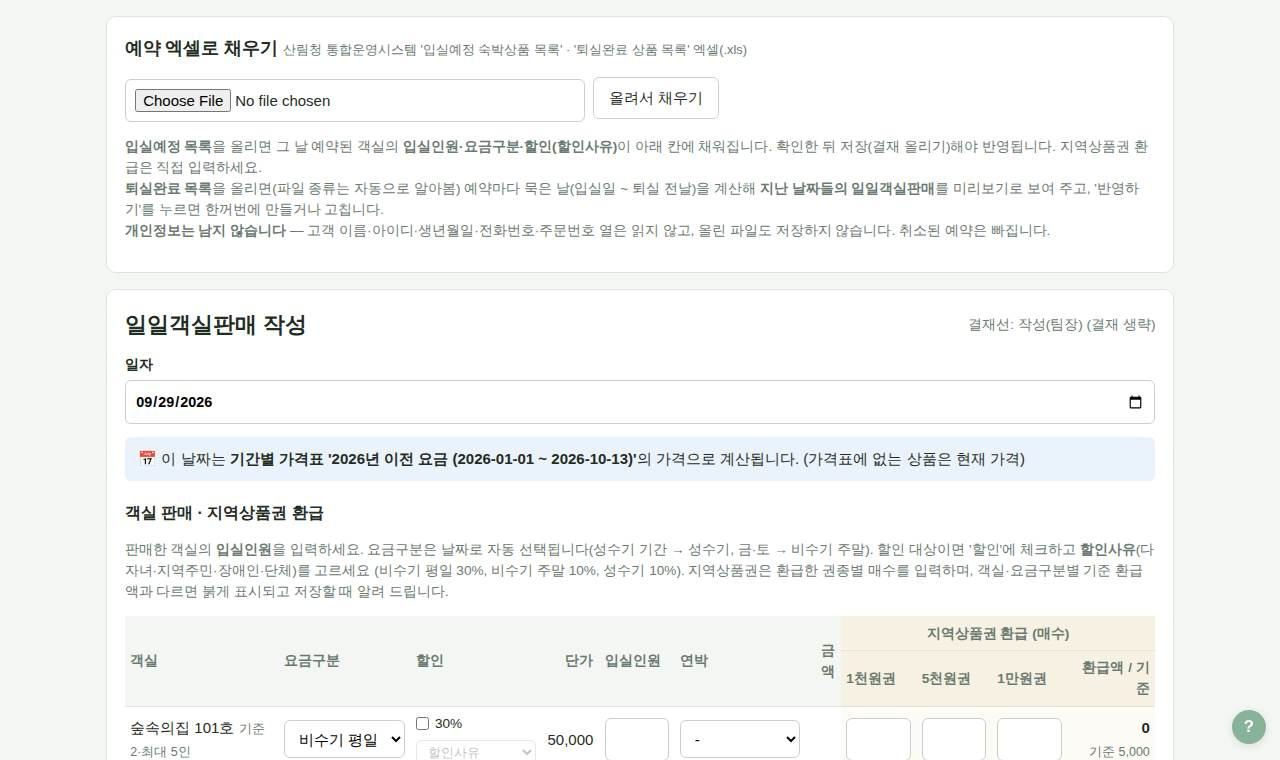
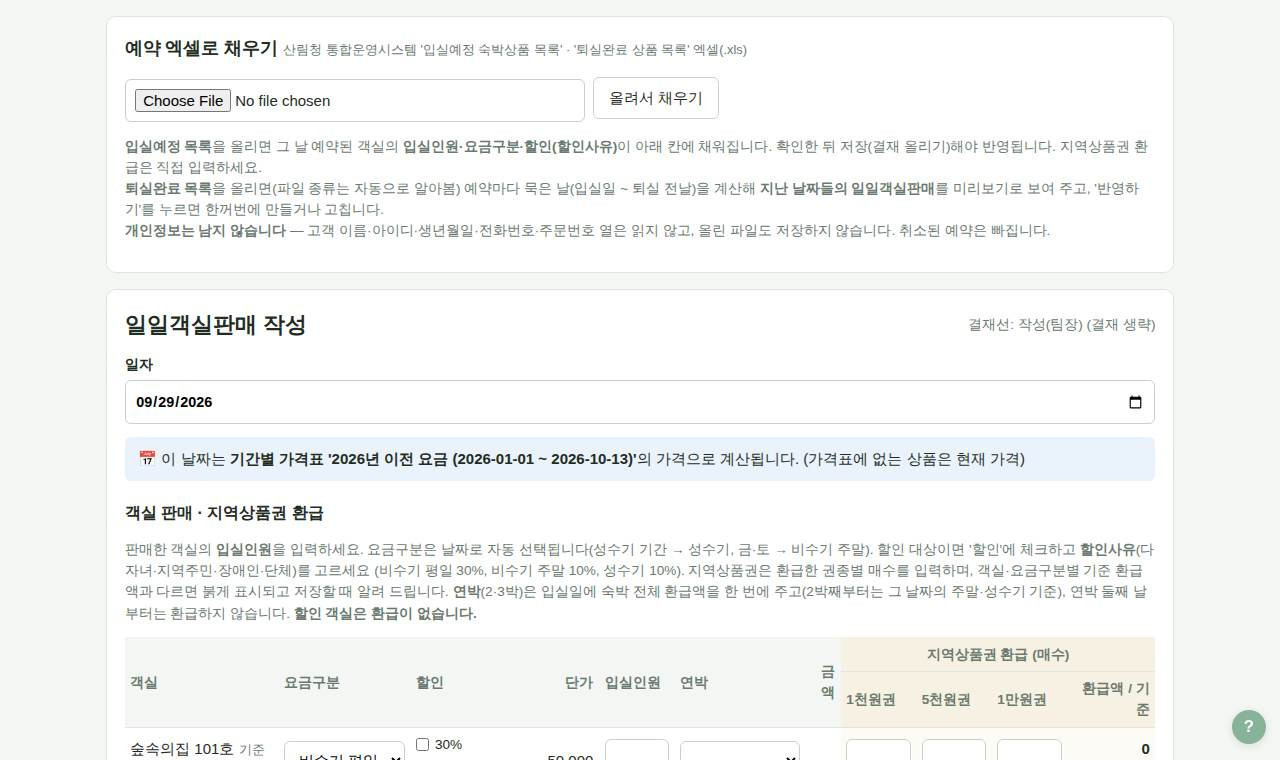
일일객실판매: 연박은 입실일에 전체 환급(날짜별 주말·성수기 기준), 연박 둘째 날·할인 객실 0
Claude-Session: https://claude.ai/code/session_01Lr6yxKyasrSL9QLfMX5TX8

diff --git a/assets/app.js b/assets/app.js
@@ -77,8 +77,17 @@
         setText($(tr, '[data-refund-amt]'), fmt(refund));
         $(tr, '[data-guests]').classList.toggle('invalid', (max > 0 && g > max) || (!sold && refund > 0));
         // 기준 환급액: 요금구분별 (data-refund-weekday / -weekend / -peak)
-        const expected = num(tr.dataset['refund' + rate.charAt(0).toUpperCase() + rate.slice(1)]);
+        //  할인 객실 0, 앞선 연박이 이어지는 날 0(입실일에 지급), 연박 N박은 입실일에 2박째부터의 날짜별 기준액까지 더함
+        const stay = num(($(tr, '.stay-select') || {}).value);
+        let next = [];
+        try { next = JSON.parse(tr.dataset.refundNext || '[]'); } catch (e) { next = []; }
+        let expected = num(tr.dataset['refund' + rate.charAt(0).toUpperCase() + rate.slice(1)]);
+        let refundWhy = '';
+        if (dcBox.checked) { expected = 0; refundWhy = ' (할인 · 환급 없음)'; }
+        else if (tr.dataset.cont) { expected = 0; refundWhy = ' (연박 중 · ' + tr.dataset.cont + ' 입실일에 지급)'; }
+        else if (stay >= 2) { for (let k = 0; k < stay - 1; k++) expected += num(next[k]); refundWhy = ' (연박 ' + stay + '박 합계)'; }
         setText($(tr, '[data-refund-base]'), fmt(expected));
+        setText($(tr, '[data-refund-why]'), refundWhy);
         const mismatch = sold ? refund !== expected : refund > 0;
         tr.classList.toggle('sold', sold);
         tr.classList.toggle('refund-mismatch', mismatch);
@@ -204,7 +213,7 @@
       recalc();
     });
   });
-  document.querySelectorAll('[data-rate], [data-dc], [data-dc-reason]').forEach((el) => el.addEventListener('change', recalc));
+  document.querySelectorAll('[data-rate], [data-dc], [data-dc-reason], .stay-select').forEach((el) => el.addEventListener('change', recalc));
   document.querySelectorAll('[data-rent-time], [data-rent-night]').forEach((el) => el.addEventListener('change', recalc));
   document.querySelectorAll('[data-rent-youth]').forEach((el) => el.addEventListener('change', recalc));
 

diff --git a/app/items.php b/app/items.php
@@ -120,6 +120,7 @@ function items_parse(string $type, string $workDate, int $journalId): array
         $lines = [];
         // 객실: 객실명마다 한 실이므로 입실인원을 입력하면 판매로 본다
         $payload['warnings'] = [];
+        $continued = valid_date($workDate) ? turnover_continued($workDate) : []; // 앞선 연박이 이어지는 객실 (환급 없음)
         foreach ((array) ($_POST['room'] ?? []) as $pid => $row) {
             $p = $products[(int) $pid] ?? null;
             if (!$p || $p['grp'] !== 'room') continue;
@@ -141,16 +142,20 @@ function items_parse(string $type, string $workDate, int $journalId): array
             if ($dc && $unit !== room_price($p, $rate) && !isset(ROOM_DC_REASONS[$dcReason])) $errors[] = "{$p['name']}: 할인사유를 고르세요.";
             $roomSeason = $rate === 'peak' ? season_for('room', $workDate) : null;
             $refund = voucher_amount($vouchers);
-            $expected = room_refund($p, $rate);
+            $isDc = $dc && $unit !== room_price($p, $rate);
+            $sn = ($sn = to_int($row['stay'] ?? 0)) >= 2 && $sn <= 30 ? $sn : 0;
+            $isCont = isset($continued[(int) $p['id']]);
+            $expected = room_refund_stay($p, $workDate, $rate, $isDc, $sn, $isCont);
             if ($refund !== $expected) {
-                $payload['warnings'][] = "{$p['name']}: 지역상품권 환급액 " . number_format($refund) . '원이 ' . RATE_TYPES[$rate] . ' 기준 환급액 ' . number_format($expected) . '원과 다릅니다.';
+                $why = $isDc ? '할인 객실은 환급 없음' : ($isCont ? '연박 중(입실일 ' . date('n/j', strtotime($continued[(int) $p['id']])) . '에 지급)' : ($sn ? "연박 {$sn}박 합계" : RATE_TYPES[$rate]));
+                $payload['warnings'][] = "{$p['name']}: 지역상품권 환급액 " . number_format($refund) . "원이 기준 환급액 " . number_format($expected) . "원($why)과 다릅니다.";
             }
             $lines[] = [
                 'product_id' => (int) $p['id'], 'grp' => 'room', 'name' => $p['name'], 'is_free' => 0,
                 'rate' => $rate, 'season' => $roomSeason['name'] ?? null, 'discounted' => (int) ($dc && $unit !== room_price($p, $rate)),
                 'dc_reason' => $dc && isset(ROOM_DC_REASONS[$dcReason]) ? $dcReason : null,
                 'unit_price' => $unit, 'qty' => 1, 'guests' => $guests, 'amount' => $unit,
-                'stay_nights' => ($sn = to_int($row['stay'] ?? 0)) >= 2 && $sn <= 30 ? $sn : 0, // 연박 (한 손님 2·3박 …)
+                'stay_nights' => $sn, // 연박 (한 손님 2·3박 …)
                 'refund_expected' => $expected, 'vouchers' => $vouchers,
             ];
         }
@@ -501,6 +506,7 @@ function items_form(string $type, array $payload, string $workDate, ?array $jour
     판매한 객실의 <b>입실인원</b>을 입력하세요. 요금구분은 날짜로 자동 선택됩니다(성수기 기간 → 성수기, 금·토 → 비수기 주말).
     할인 대상이면 '할인'에 체크하고 <b>할인사유</b>(<?= e(implode('·', ROOM_DC_REASONS)) ?>)를 고르세요 (<?= e(implode(', ', array_map(fn($k, $v) => $v . ' ' . room_dc_pct($k) . '%', array_keys(RATE_TYPES), RATE_TYPES))) ?><?= room_dc_group_pct() ? ', 할인사유가 단체면 ' . room_dc_group_pct() . '%' : '' ?>).
     지역상품권은 환급한 권종별 매수를 입력하며, 객실·요금구분별 기준 환급액과 다르면 붉게 표시되고 저장할 때 알려 드립니다.
+    <b>연박</b>(2·3박)은 입실일에 숙박 전체 환급액을 한 번에 주고(2박째부터는 그 날짜의 주말·성수기 기준), 연박 둘째 날부터는 환급하지 않습니다. <b>할인 객실은 환급이 없습니다.</b>
   </p>
   <div class="table-scroll">
   <table class="table room-table" data-room-table>
@@ -511,9 +517,11 @@ function items_form(string $type, array $payload, string $workDate, ?array $jour
     </thead>
     <tbody>
     <?php $blockedToday = room_block_map($workDate, $workDate)[$workDate] ?? []; // 객실운영관리의 미판매 (예비객실·공사·업무예약)
+    $contToday = turnover_continued($workDate); // 앞선 연박이 이어지는 객실 → 환급은 입실일에 이미 지급
     foreach ($rooms as $pid => $p): $l = $byProduct[$pid] ?? null; $rate = $l['rate'] ?? rate_for_date($workDate); ?>
       <tr data-weekday="<?= (int) $p['price'] ?>" data-weekend="<?= (int) $p['price_weekend'] ?>" data-peak="<?= (int) $p['price_peak'] ?>"
-          data-max="<?= (int) $p['max_people'] ?>" data-refund-weekday="<?= room_refund($p, 'weekday') ?>" data-refund-weekend="<?= room_refund($p, 'weekend') ?>" data-refund-peak="<?= room_refund($p, 'peak') ?>" data-name="<?= e($p['name']) ?>">
+          data-max="<?= (int) $p['max_people'] ?>" data-refund-weekday="<?= room_refund($p, 'weekday') ?>" data-refund-weekend="<?= room_refund($p, 'weekend') ?>" data-refund-peak="<?= room_refund($p, 'peak') ?>" data-name="<?= e($p['name']) ?>"
+          data-refund-next="<?= e(json_encode(room_refund_next_nights($p, $workDate, max(3, (int) ($l['stay_nights'] ?? 0))))) ?>"<?= isset($contToday[$pid]) ? ' data-cont="' . e(date('n/j', strtotime($contToday[$pid]))) . '"' : '' ?>>
         <td><?= e($p['name']) ?> <small class="muted"><?= $p['base_people'] ?? 0 ? '기준 ' . (int) $p['base_people'] . '·' : '' ?>최대 <?= (int) $p['max_people'] ?>인</small><?= $p['is_active'] ? '' : ' <small class="muted">(판매중지)</small>' ?><?= isset($blockedToday[$pid]) ? ' <span class="badge rb-' . e($blockedToday[$pid]) . '" title="객실관리 › 객실운영관리">' . e(ROOM_BLOCK_REASONS[$blockedToday[$pid]] ?? '') . '</span>' : '' ?></td>
         <td><select name="room[<?= $pid ?>][rate]" data-rate>
           <?php foreach (RATE_TYPES as $k => $label): ?><option value="<?= $k ?>" <?= $rate === $k ? 'selected' : '' ?>><?= e($label) ?></option><?php endforeach ?>
@@ -532,7 +540,7 @@ function items_form(string $type, array $payload, string $workDate, ?array $jour
         <?php foreach ($denoms as $d): ?>
           <td class="refund-cell"><input name="room[<?= $pid ?>][v][<?= $d ?>]" value="<?= e(($l['vouchers'][$d] ?? 0) ?: '') ?>" inputmode="numeric" class="num tiny" data-money data-vdenom="<?= $d ?>"></td>
         <?php endforeach ?>
-        <td class="right refund-cell nowrap"><b data-refund-amt>0</b><br><small class="muted">기준 <span data-refund-base><?= number_format(room_refund($p, $rate)) ?></span></small></td>
+        <td class="right refund-cell nowrap"><b data-refund-amt>0</b><br><small class="muted">기준 <span data-refund-base><?= number_format(room_refund($p, $rate)) ?></span><span data-refund-why></span></small></td>
       </tr>
     <?php endforeach ?>
     <?php if ($unassigned): ?>

diff --git a/app/help.php b/app/help.php
@@ -202,6 +202,7 @@ HTML],
   <li><b>연박</b>: 한 손님이 이어서 묵으면 입실한 날 객실의 연박 칸에서 <b>2박·3박</b>을 고릅니다 (예약 엑셀로 채우기는 숙박기간으로 자동). 청소관리에서 연박 객실(청소 없이 비품지급)을 가려내는 기준입니다.</li>
   <li>할인에 체크하면 옆의 <b>할인사유</b>(다자녀·지역주민·장애인·단체)를 꼭 고릅니다. 고르지 않으면 붉게 표시되고 저장되지 않습니다. 사유는 보기 화면과 수정 이력에 나옵니다. 사유가 <b>단체</b>이면 설정의 단체 할인율이 적용됩니다(설정했을 때).</li>
   <li><b>지역상품권 환급</b>: 객실별 권종 매수. 기준 환급액과 다르면 붉게 표시되고 저장 시 확인합니다. 아래에 환급 합계와 남은 재고.
+    <b>연박</b>(2·3박)은 <b>입실일에 숙박 전체</b>를 한 번에 줍니다 — 2박째부터는 그 날짜의 요금구분(주말·성수기) 기준액을 더하고, 연박 둘째 날부터는 기준 0원('연박 중 · 입실일에 지급'). <b>할인 객실은 환급이 없습니다</b>(기준 0원).
     <b>금일 출고 필요</b>: 입실인원을 입력한 객실의 기준 환급액 합계를 큰 권종부터 나눈 매수·금액 — 오늘 금고에서 불출해야 할 양 (현재고보다 많으면 붉게).</li>
   <li>저장하면 그 날 매출보고의 쉬자파크숙박(입실)과 다음 날 (퇴실)이 자동으로 맞춰집니다.</li>
 </ul>

diff --git a/app/products.php b/app/products.php
@@ -228,6 +228,28 @@ function room_refund(array $p, string $rate): int
     };
 }
 
+/**
+ * 그 날 줄의 기준 지역상품권 환급액 (일일객실판매)
+ *  - 할인 객실은 환급 없음 (0)
+ *  - 연박(2·3박 …)은 입실일에 숙박 전체를 한 번에: 1박째는 고른 요금구분, 2박째부터는 그 날짜의 요금구분(주말·성수기) 기준
+ *  - 앞선 연박이 이어지는 날($continued)은 입실일에 이미 줬으므로 0
+ */
+function room_refund_stay(array $p, string $date, string $rate, bool $discounted, int $nights = 0, bool $continued = false): int
+{
+    if ($discounted || $continued) return 0;
+    $sum = room_refund($p, $rate);
+    for ($k = 1; $k < max(1, $nights); $k++) $sum += room_refund($p, rate_for_date(date('Y-m-d', strtotime("$date +$k days"))));
+    return $sum;
+}
+
+/** 연박 2박째부터의 날짜별 기준 환급액 [2박째, 3박째, …] (작성 화면이 연박 선택에 따라 더함) */
+function room_refund_next_nights(array $p, string $date, int $upTo = 3): array
+{
+    $out = [];
+    for ($k = 1; $k < $upTo; $k++) $out[] = room_refund($p, rate_for_date(date('Y-m-d', strtotime("$date +$k days"))));
+    return $out;
+}
+
 /** 객실 단가 (서버에서 항상 다시 계산한다. 화면 입력값은 믿지 않음). 할인가는 10원 단위 버림 */
 function room_price(array $p, string $rate, bool $discount = false, ?string $reason = null): int
 {

diff --git a/app/changelog.php b/app/changelog.php
@@ -7,6 +7,10 @@ defined('APP_ROOT') || exit;
  *   ['date' => 'YYYY-MM-DD', 'title' => '한 줄 요약', 'items' => ['자세한 내용', ...], 'menu' => '관련 메뉴(선택)']
  */
 const CHANGELOG = [
+    ['date' => '2026-10-14', 'title' => '일일객실판매: 연박·할인 객실 지역상품권 기준 환급액', 'menu' => '객실관리', 'items' => [
+        '연박(2·3박) 객실은 입실일에 숙박 전체 환급액을 한 번에 지급하는 것으로 기준을 바꿨습니다. 2박째·3박째가 주말이나 성수기면 그 날의 기준액으로 더합니다.',
+        "연박 둘째 날부터는 기준 환급액이 0원('연박 중 · 입실일에 지급')이고, 할인 객실은 환급이 없어 기준 0원입니다. 금일 출고 필요 매수·금액과 상품권 대조도 이 기준을 따릅니다.",
+    ]],
     ['date' => '2026-10-14', 'title' => '상품권 불출: 불출 담당자 · 받는 담당자', 'menu' => '운영관리', 'items' => [
         '일일 불출·반납의 불출 입력에 불출 담당자(금고에서 꺼내 준 사람, 기본은 로그인한 사람)와 받는 담당자를 함께 고릅니다. 두 목록 모두 운영관리 메뉴 권한이 있는 사람만 나옵니다.',
         "불출 기록 목록에 '불출 ○○ → 받음 ○○'으로 표시됩니다. 예전 불출 기록은 받는 담당자만 있고 불출 담당자는 '-'로 보입니다.",

diff --git a/app/rooms_xls.php b/app/rooms_xls.php
@@ -94,7 +94,7 @@ function rooms_xls_line(array $p, string $date, int $guests, string $dcText, arr
     $season = $rate === 'peak' ? season_for('room', $date) : null;
     return ['product_id' => (int) $p['id'], 'grp' => 'room', 'name' => $p['name'], 'is_free' => 0, 'rate' => $rate, 'season' => $season['name'] ?? null,
         'discounted' => (int) ($dc && $unit !== room_price($p, $rate)), 'dc_reason' => $reason, 'unit_price' => $unit, 'qty' => 1, 'guests' => max(0, $guests),
-        'amount' => $unit, 'refund_expected' => room_refund($p, $rate), 'vouchers' => $vouchers ?: array_fill_keys(voucher_denoms(), 0),
+        'amount' => $unit, 'refund_expected' => room_refund_stay($p, $date, $rate, $dc && $unit !== room_price($p, $rate), $nights > 1 ? min($nights, 30) : 0), 'vouchers' => $vouchers ?: array_fill_keys(voucher_denoms(), 0),
         'stay_nights' => $nights > 1 ? min($nights, 30) : 0]; // 숙박기간 '2박3일' → 연박 2박 (1박2일은 연박 아님)
 }
 

diff --git a/app/turnover.php b/app/turnover.php
@@ -64,3 +64,14 @@ function turnover_lists(string $date): array
     unset($l);
     return $lists;
 }
+
+/** 그 날이 앞선 연박의 둘째 날 이후인 객실 [객실 id => 입실일] — 상품권 환급은 입실일에 이미 줬으므로 0 */
+function turnover_continued(string $date): array
+{
+    $prev = date('Y-m-d', strtotime("$date -1 day"));
+    $out = [];
+    foreach (rt_nights(date('Y-m-d', strtotime("$date -31 days")), $prev) as $pid => $days) {
+        foreach (rt_stays($days) as $st) if ($st['from'] < $date && $date <= $st['last']) $out[$pid] = $st['from'];
+    }
+    return $out;
+}

diff --git a/README.md b/README.md
@@ -290,6 +290,7 @@
   - 환급액이 그 객실의 **기준 환급액**(상품관리의 요금구분별 환급액 — 그 행에서 고른 요금구분 기준)과 다르면 행이 붉게 표시되고, 저장할 때 **팝업으로 확인**합니다.
     (그래도 저장할 수 있고, 저장 후 상단에 '확인 필요' 안내가 남습니다)
   - 표 아래에 **금일 출고 필요(매수·금액)**, **환급 합계(권종별 매수·금액)와 남은 재고(매수·금액)**가 실시간으로 표시됩니다.
+  기준 환급액(`room_refund_stay()`): 할인 객실 0, 앞선 연박이 이어지는 날(`turnover_continued()`) 0, 연박 N박은 입실일에 1박째(고른 요금구분) + 2박째부터 그 날짜의 `rate_for_date` 기준액을 합산 — 화면은 `data-refund-next`·`data-cont`로 같은 계산, 저장 시 `sales_lines.refund_expected`.
   금일 출고 필요 = 입실인원을 입력한 객실마다 기준 환급액(`room_refund`, 요금구분별)을 큰 권종부터 나눈 매수의 합(나눌 수 없는 나머지는 안내), 현재고보다 많으면 붉게 (`assets/app.js`). 재고보다 많으면 붉게 표시되고 저장 시 알립니다.
 - 금액은 화면에서 미리 보여주지만, 저장할 때 서버가 상품 가격으로 **다시 계산**합니다.
 
